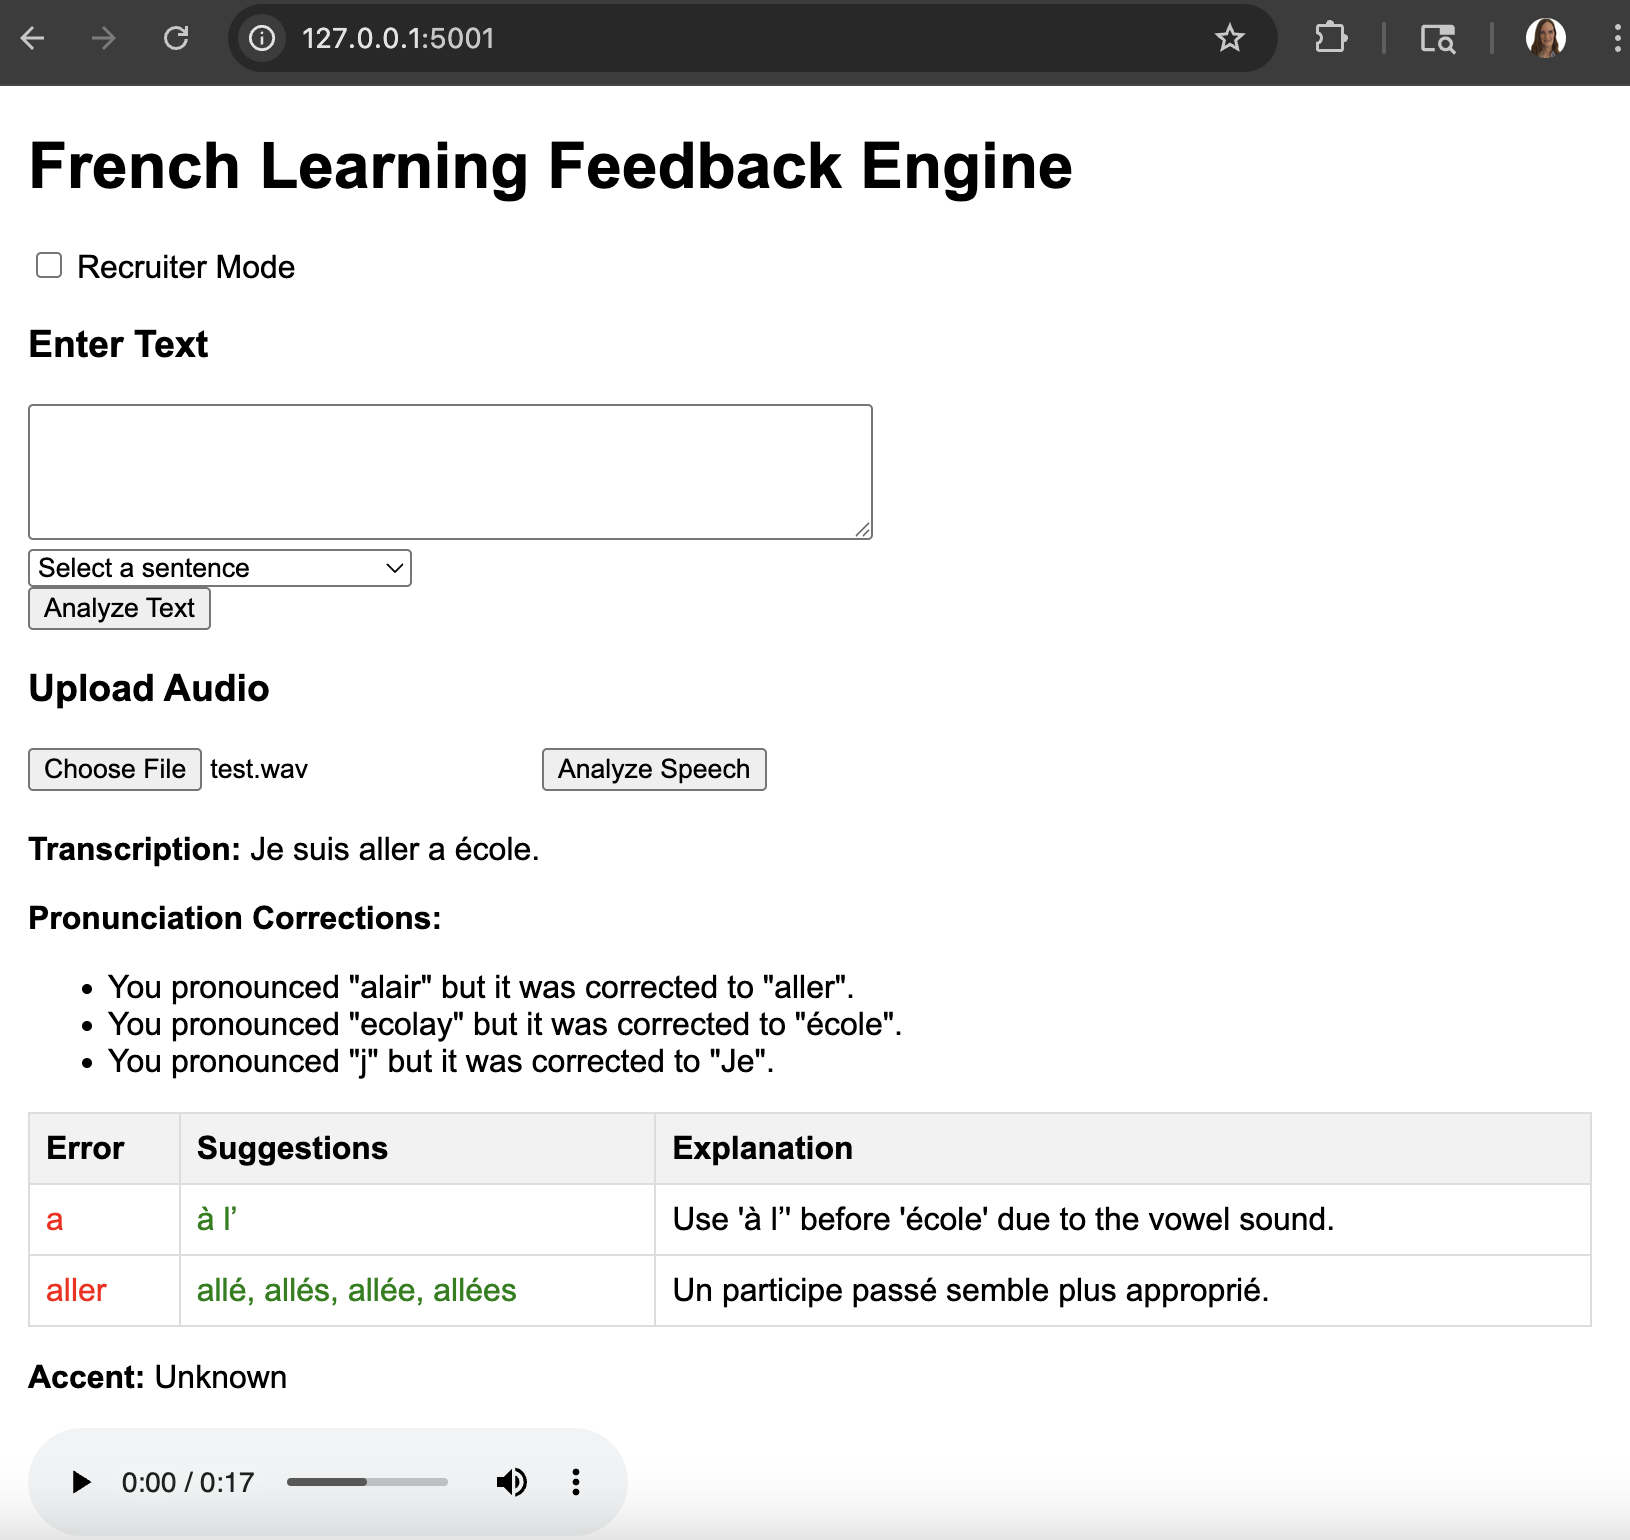
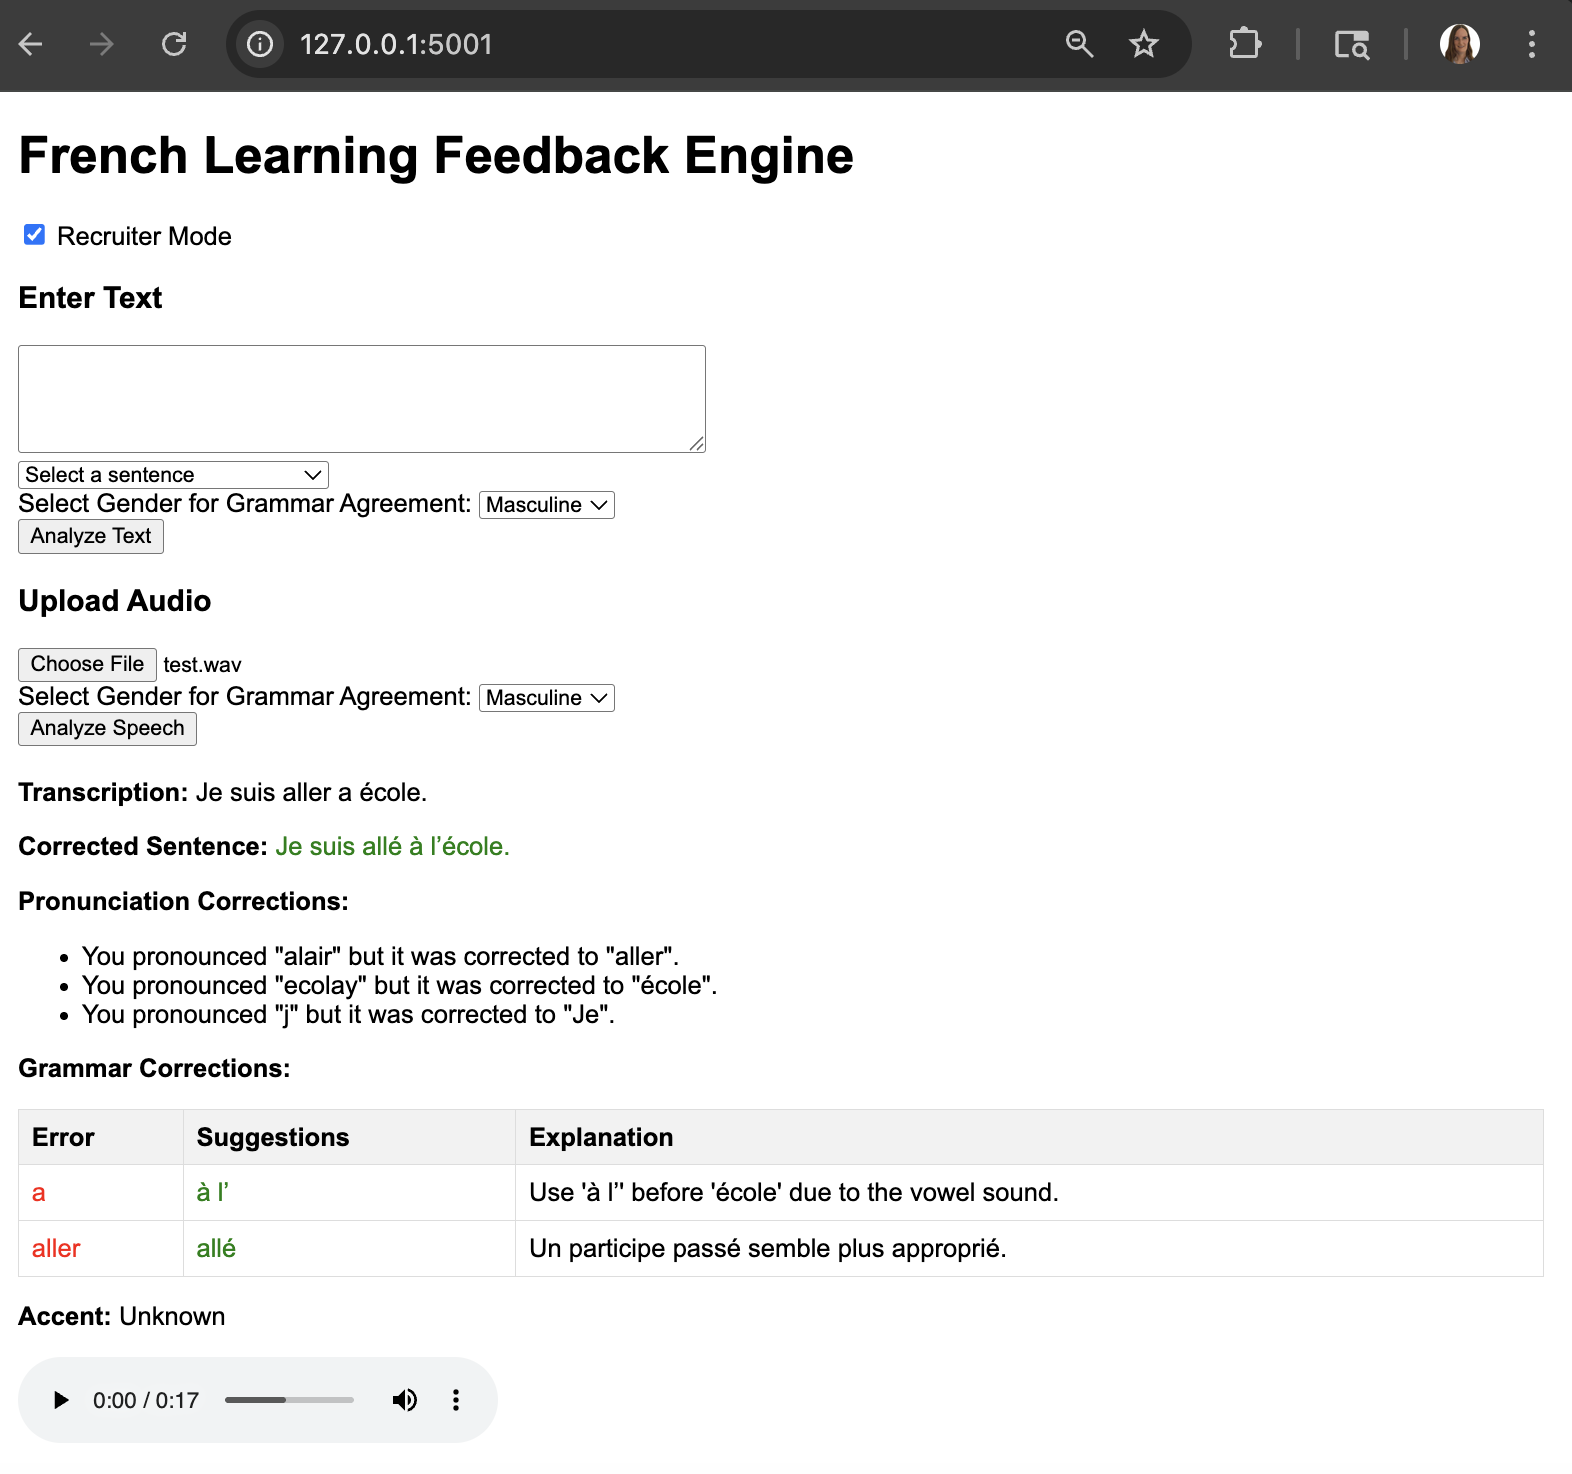
Updated README.md with new screenshots of app, updated app/main.py, app/templates/index.html and src/analyze.py to include feminine/masculine updates; updated screenshots of app

diff --git a/dev/app/templates/index.html b/dev/app/templates/index.html
@@ -15,10 +15,12 @@
     async function analyzeText() {
       const text = document.getElementById('inputText').value;
       const recruiterMode = document.getElementById('recruiterMode').checked;
+      const gender = document.getElementById('textGender').value;
       const formData = new FormData();
       formData.append('text', text);
       formData.append('recruiter_mode', recruiterMode);
-      const response = await fetch('/analyze', {
+      formData.append('gender', gender);
+      const response = await fetch('/analyze_text', {
         method: 'POST',
         body: formData
       });
@@ -29,10 +31,12 @@
     async function analyzeSpeech() {
       const audioInput = document.getElementById('audioInput').files[0];
       const recruiterMode = document.getElementById('recruiterMode').checked;
+      const gender = document.getElementById('audioGender').value;
       const formData = new FormData();
       formData.append('audio', audioInput);
       formData.append('recruiter_mode', recruiterMode);
-      const response = await fetch('/analyze', {
+      formData.append('gender', gender);
+      const response = await fetch('/analyze_audio', {
         method: 'POST',
         body: formData
       });
@@ -44,6 +48,10 @@
       const feedbackDiv = document.getElementById('feedback');
       let html = `<p><strong>Transcription:</strong> ${result.transcription}</p>`;
       
+      if (result.corrected_text) {
+        html += `<p><strong>Corrected Sentence:</strong> <span class="correct">${result.corrected_text}</span></p>`;
+      }
+
       if (result.pronunciation_corrections && result.pronunciation_corrections.length > 0) {
         html += '<p><strong>Pronunciation Corrections:</strong></p><ul>';
         result.pronunciation_corrections.forEach(c => {
@@ -53,6 +61,7 @@
       }
 
       if (result.errors.length > 0) {
+        html += '<p><strong>Grammar Corrections:</strong></p>';
         html += '<table><tr><th>Error</th><th>Suggestions</th><th>Explanation</th></tr>';
         result.errors.forEach(error => {
           html += `<tr><td class="error">${error.error}</td><td class="correct">${error.suggestions.join(', ')}</td><td>${error.message}</td></tr>`;
@@ -71,7 +80,8 @@
       feedbackDiv.innerHTML = html;
 
       if (result.recruiter_mode) {
-        alert("Recruiter Mode: This demo shows AI-driven grammar and accent correction.");
+        const popupMessage = result.popup || "Recruiter Mode: This demo shows AI-driven grammar, accent, and pronunciation correction.";
+        alert(popupMessage);
       }
     }
 
@@ -85,19 +95,36 @@
   <h1>French Learning Feedback Engine</h1>
   <label><input type="checkbox" id="recruiterMode"> Recruiter Mode</label>
   <h3>Enter Text</h3>
-  <textarea id="inputText" rows="4" cols="50"></textarea>
-  <br>
-  <select id="preloadedSentences" onchange="loadPreloadedSentence()">
-    <option value="">Select a sentence</option>
-    {% for sentence in sentences %}
-    <option value="{{ sentence }}">{{ sentence }}</option>
-    {% endfor %}
-  </select>
-  <br>
-  <button onclick="analyzeText()">Analyze Text</button>
+  <form id="textForm">
+    <textarea id="inputText" rows="4" cols="50"></textarea>
+    <br>
+    <select id="preloadedSentences" onchange="loadPreloadedSentence()">
+      <option value="">Select a sentence</option>
+      {% for sentence in sentences %}
+      <option value="{{ sentence }}">{{ sentence }}</option>
+      {% endfor %}
+    </select>
+    <br>
+    <label for="textGender">Select Gender for Grammar Agreement:</label>
+    <select name="gender" id="textGender">
+      <option value="masculine">Masculine</option>
+      <option value="feminine">Feminine</option>
+    </select>
+    <br>
+    <button type="button" onclick="analyzeText()">Analyze Text</button>
+  </form>
   <h3>Upload Audio</h3>
-  <input type="file" id="audioInput" accept="audio/*">
-  <button onclick="analyzeSpeech()">Analyze Speech</button>
+  <form id="audioForm">
+    <input type="file" id="audioInput" accept="audio/*">
+    <br>
+    <label for="audioGender">Select Gender for Grammar Agreement:</label>
+    <select name="gender" id="audioGender">
+      <option value="masculine">Masculine</option>
+      <option value="feminine">Feminine</option>
+    </select>
+    <br>
+    <button type="button" onclick="analyzeSpeech()">Analyze Speech</button>
+  </form>
   <div id="feedback"></div>
 </body>
 </html>

diff --git a/dev/src/analyze.py b/dev/src/analyze.py
@@ -25,7 +25,80 @@ class FrenchAnalyzer:
                 self.classifier = pickle.load(f)
         self.feedback_generator = pipeline("text-generation", model="distilgpt2")
 
-    def analyze_text(self, text):
+    def apply_corrections(self, text, matches, gender="masculine"):
+            corrected = text
+            print(f"Initial text for correction: {corrected}, Gender: {gender}")
+
+            # Preprocess to normalize "à l’école" before LanguageTool with stricter matching
+            corrected = re.sub(r'\b[aà]\s+l?’?école\b', 'à l’école', corrected, flags=re.IGNORECASE)
+            print(f"After initial 'à l’' correction: {corrected}")
+
+            # Handle "mon mère" → "ma mère" for feminine before LanguageTool with context
+            if gender.lower() == "feminine" and re.search(r'\bchez mon mère\b', corrected.lower()):
+                corrected = re.sub(r'\bchez mon mère\b', 'chez ma mère', corrected, flags=re.IGNORECASE)
+                print(f"After 'chez mon mère' to 'chez ma mère' correction: {corrected}")
+
+            # Handle determiner-noun agreement based on noun gender before LanguageTool
+            noun_gender_map = {
+                "pomme": "feminine",  # Apple is feminine
+                "mère": "feminine",   # Mother is feminine
+                "père": "masculine"   # Father is masculine
+            }
+            words = corrected.split()
+            for i in range(len(words) - 1):
+                if words[i] in ["un", "une", "mon", "ma"] and i + 1 < len(words) and words[i + 1].lower() in noun_gender_map:
+                    noun = words[i + 1].lower()
+                    expected_gender = noun_gender_map[noun]
+                    if words[i] == "un" and expected_gender == "feminine":
+                        words[i] = "une"
+                    elif words[i] == "une" and expected_gender == "masculine":
+                        words[i] = "un"
+                    elif words[i] == "mon" and expected_gender == "feminine":
+                        words[i] = "ma"
+                    elif words[i] == "ma" and expected_gender == "masculine":
+                        words[i] = "mon"
+                    corrected = " ".join(words)
+                    print(f"After determiner correction: {corrected}")
+
+            # Apply LanguageTool replacements with filtered suggestions
+            for match in matches:
+                error_text = corrected[match.offset:match.offset + match.errorLength]
+                print(f"Processing match: Error='{error_text}', Offset={match.offset}, Length={match.errorLength}, Replacements={match.replacements}")
+                if match.replacements:
+                    # Filter replacements to prioritize correct gender for determiners
+                    if error_text in ["un pomme", "mon mère", "chez mon mère"]:
+                        for repl in match.replacements:
+                            if (error_text == "un pomme" and repl == "une pomme") or (error_text == "mon mère" and repl == "ma mère") or (error_text == "chez mon mère" and repl == "chez ma mère"):
+                                replacement = repl
+                                break
+                        else:
+                            replacement = match.replacements[0]  # Default to first if no match
+                    else:
+                        replacement = match.replacements[0]
+                    corrected = corrected[:match.offset] + replacement + corrected[match.offset + match.errorLength:]
+                    print(f"After LanguageTool replacement: {corrected}")
+
+            # Fallback to fix corruption from LanguageTool
+            corrected = re.sub(r'chez m+?a mère\.?', 'chez ma mère', corrected)
+            corrected = re.sub(r'à+ ?l’école', 'à l’école', corrected)
+            print(f"After corruption fix: {corrected}")
+
+            # Apply gender correction last
+            if "je suis" in corrected.lower():
+                if gender.lower() == "feminine":
+                    corrected = corrected.replace("aller", "allée").replace("allé", "allée")
+                else:
+                    corrected = corrected.replace("aller", "allé").replace("allée", "allé")
+                print(f"After gender correction for 'aller': {corrected}")
+
+            # Ensure corrected text ends with exactly one period if input had one
+            if text.endswith('.'):
+                corrected = corrected.rstrip('.').rstrip() + '.'
+                print(f"After adding period: {corrected}")
+
+            return corrected
+
+    def analyze_text(self, text, gender="masculine"):
         matches = self.grammar_tool.check(text)
         errors = []
         print(f"Matches for '{text}': {len(matches)}")
@@ -38,6 +111,14 @@ class FrenchAnalyzer:
                 "message": "Use 'à l’' before 'école' due to the vowel sound."
             }
             errors.append(custom_a_error)
+        
+        # Define noun gender map for filtering suggestions
+        noun_gender_map = {
+            "pomme": "feminine",
+            "mère": "feminine",
+            "père": "masculine"
+        }
+
         for match in matches:
             error_text = text[match.offset:match.offset + match.errorLength]
             if custom_a_error and error_text.lower() in ['a', 'à']:
@@ -48,13 +129,29 @@ class FrenchAnalyzer:
                 "message": match.message
             }
             if error_text.lower() == "aller" and "je suis" in text.lower():
-                suggestions = ["allé"] + [s for s in match.replacements if s != "aller"]
-                error["suggestions"] = list(dict.fromkeys(suggestions))  # Remove duplicates
+                suggestions = ["allée"] if gender.lower() == "feminine" else ["allé"]
+                error["suggestions"] = suggestions  # Only show gender-specific suggestion
+            else:
+                # Filter suggestions based on noun gender
+                if error_text.lower() in ["un pomme", "mon mère"]:
+                    noun = error_text.split()[-1].lower()
+                    if noun in noun_gender_map:
+                        expected_gender = noun_gender_map[noun]
+                        filtered_suggestions = []
+                        for suggestion in match.replacements:
+                            if (expected_gender == "feminine" and "une" in suggestion.lower()) or \
+                               (expected_gender == "feminine" and "ma" in suggestion.lower()) or \
+                               (expected_gender == "masculine" and "un" in suggestion.lower()) or \
+                               (expected_gender == "masculine" and "mon" in suggestion.lower()):
+                                filtered_suggestions.append(suggestion)
+                        error["suggestions"] = filtered_suggestions if filtered_suggestions else match.replacements
             print(f"Error: {error['error']}, Suggestions: {error['suggestions']}")
             errors.append(error)
-        return errors
+        corrected_text = self.apply_corrections(text, matches, gender=gender)
+        print(f"Final corrected text: {corrected_text}")
+        return errors, corrected_text
 
-    def analyze_speech(self, audio_file):
+    def analyze_speech(self, audio_file, gender="masculine"):
         audio, sr = librosa.load(audio_file, sr=16000)
         result = self.whisper_model.transcribe(audio_file, language='fr')
         text = result["text"].replace(',', '').lower()
@@ -78,7 +175,7 @@ class FrenchAnalyzer:
         print(f"Transcription: {text}")
         print(f"Pronunciation corrections: {pronunciation_corrections}")
 
-        errors = self.analyze_text(text)
+        errors, corrected_text = self.analyze_text(text, gender=gender)
         print(f"Errors in order: {[error['error'] for error in errors]}")
 
         # Generate feedback text
@@ -106,6 +203,7 @@ class FrenchAnalyzer:
         return {
             "transcription": text,
             "errors": errors,
+            "corrected_text": corrected_text,
             "accent": accent,
             "shap_values": shap_values,
             "audio_path": audio_path,

diff --git a/dev/app/main.py b/dev/app/main.py
@@ -18,38 +18,61 @@ PRELOADED_SENTENCES = [
 def index():
     return render_template('index.html', sentences=PRELOADED_SENTENCES)
 
-@app.route('/analyze', methods=['POST'])
-def analyze():
+@app.route('/analyze_audio', methods=['POST'])
+def analyze_audio():
     recruiter_mode = request.form.get('recruiter_mode') == 'true'
-    if 'audio' in request.files:
-        audio = request.files['audio']
-        if audio.filename == '':
-            return jsonify({"error": "No audio file provided"}), 400
-        filename = os.path.join(app.config['UPLOAD_FOLDER'], 'input.wav')
-        os.makedirs(app.config['UPLOAD_FOLDER'], exist_ok=True)
-        audio.save(filename)
-        result = analyzer.analyze_speech(filename)
-    else:
-        text = request.form.get('text', '')
-        if not text:
-            return jsonify({"error": "No text provided"}), 400
-        result = {
-            "transcription": text,
-            "errors": analyzer.analyze_text(text),
-            "accent": "N/A",
-            "shap_values": None,
-            "audio_path": None,
-            "pronunciation_corrections": []
-        }
-
-    return jsonify({
+    gender = request.form.get('gender', 'masculine')
+    if 'audio' not in request.files:
+        return jsonify({"error": "No audio file provided"}), 400
+    audio = request.files['audio']
+    if audio.filename == '':
+        return jsonify({"error": "No audio file provided"}), 400
+    filename = os.path.join(app.config['UPLOAD_FOLDER'], 'input.wav')
+    os.makedirs(app.config['UPLOAD_FOLDER'], exist_ok=True)
+    audio.save(filename)
+    result = analyzer.analyze_speech(filename, gender=gender)
+    response = {
         "transcription": result["transcription"],
         "errors": result["errors"],
+        "corrected_text": result["corrected_text"],
         "accent": result["accent"],
         "audio": result.get("audio_path"),
         "pronunciation_corrections": result.get("pronunciation_corrections", []),
         "recruiter_mode": recruiter_mode
-    })
+    }
+    if recruiter_mode:
+        response["popup"] = "This app provides grammar, accent, and pronunciation correction to help you improve your French."
+    return jsonify(response)
+
+@app.route('/analyze_text', methods=['POST'])
+def analyze_text():
+    recruiter_mode = request.form.get('recruiter_mode') == 'true'
+    gender = request.form.get('gender', 'masculine')
+    text = request.form.get('text', '')
+    if not text:
+        return jsonify({"error": "No text provided"}), 400
+    errors, corrected_text = analyzer.analyze_text(text, gender=gender)
+    result = {
+        "transcription": text,
+        "errors": errors,
+        "corrected_text": corrected_text,
+        "accent": "N/A",
+        "shap_values": None,
+        "audio_path": None,
+        "pronunciation_corrections": []
+    }
+    response = {
+        "transcription": result["transcription"],
+        "errors": result["errors"],
+        "corrected_text": result["corrected_text"],
+        "accent": result["accent"],
+        "audio": result.get("audio_path"),
+        "pronunciation_corrections": result.get("pronunciation_corrections", []),
+        "recruiter_mode": recruiter_mode
+    }
+    if recruiter_mode:
+        response["popup"] = "This app provides grammar, accent, and pronunciation correction to help you improve your French."
+    return jsonify(response)
 
 @app.route('/static/<path:filename>')
 def serve_static(filename):

diff --git a/dev/README.md b/dev/README.md
@@ -14,11 +14,12 @@ The French Learning Feedback Engine is a Flask-based application designed to hel
 
 ### Screenshots
 #### GUI Screenshots
-![GUI Text 1](screenshots/FrenchLearningFeedbackEngine_Text1.png)
-![GUI Text 2](screenshots/FrenchLearningFeedbackEngine_Text2.png)
-![GUI Text 3](screenshots/FrenchLearningFeedbackEngine_Text3_RecruiterMode.png)
-![GUI Text 4](screenshots/FrenchLearningFeedbackEngine_Audio1.png)
-![GUI Text 5](screenshots/FrenchLearningFeedbackEngine_Audio2.png)
+![GUI Text 1](screenshots/FrenchLearningFeedbackEngine_RecruiterMode_PopUp.png)
+![GUI Text 2](screenshots/FrenchLearningFeedbackEngine_Text1.png)
+![GUI Text 3](screenshots/FrenchLearningFeedbackEngine_Text2.png)
+![GUI Text 4](screenshots/FrenchLearningFeedbackEngine_Text3.png)
+![GUI Text 5](screenshots/FrenchLearningFeedbackEngine_Audio1.png)
+![GUI Text 6](screenshots/FrenchLearningFeedbackEngine_Audio2.png)
 
 ### Files
 - `src/analyze.py`: Processes audio or text input using Whisper for transcription and language_tool_python for grammar checks, generating personalized audio feedback with gTTS.
